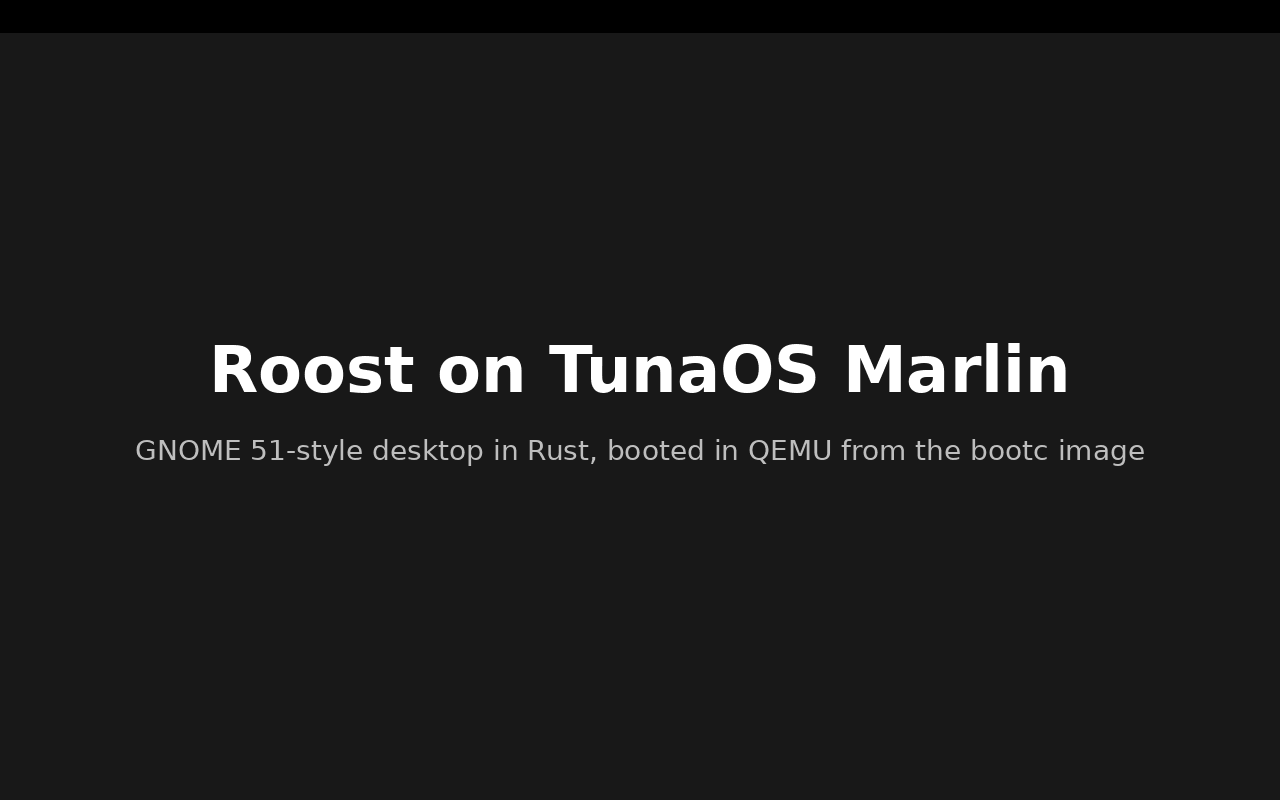
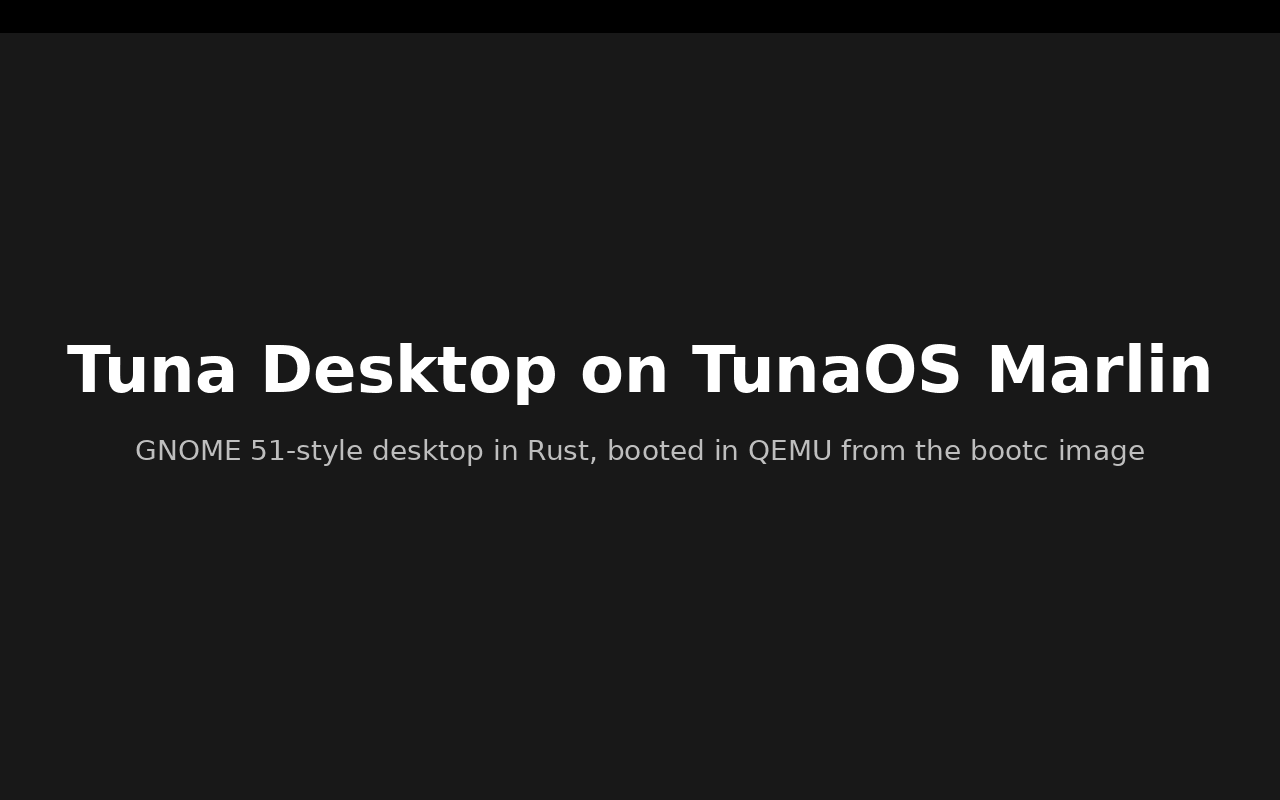
vm-lane: capture the README hero set from the Marlin tour
The tour's stills raced the next input: still() picked the next frame
index and returned at once, so Escape often landed before the capture
and the app grid, quick settings and calendar stills showed a bare
desktop. still() now waits for its frame.

The tour also writes tour/hero/: the overview and app grid with Disks,
System Monitor and Files open, quick settings, the calendar with sample
notifications (sent through the shell's notification server by a new
hero-notify lifecycle action), the switcher and the lock screen as
pngquant/optipng PNGs at 1280x800, and an H.264 overview clip captured
by a QMP burst and resampled to 15 fps from real capture times, plus a
GIF. scripts/tuna-hero-media installs a run's set into docs/walkthrough.

The tour title cards are re-rendered with the Tuna Desktop name.

Refs #506

Claude-Session: https://claude.ai/code/session_016YpFGeYYmfpLzk2LMr8ebX

Changed region(s): [[0.0625, 0.4062, 0.9688, 0.5]]

diff --git a/scripts/lib/vm-boot-tests.py b/scripts/lib/vm-boot-tests.py
@@ -451,5 +451,95 @@ class PciCapabilities(unittest.TestCase):
         self.assertTrue(self.probe(8, cycle=True)["no_soft_reset"])
 
 
+def write_ppm(path, rgb, size=(64, 40)):
+    width, height = size
+    Path(path).write_bytes(f"P6 {width} {height} 255\n".encode() + bytes(rgb) * (width * height))
+
+
+class FakeScreendumpQmp:
+    """Writes a solid frame per screendump (PPM bytes; nothing decodes the
+    PNG-named ones in these tests)."""
+
+    def __init__(self):
+        self.calls = []
+
+    def cmd(self, command, **args):
+        self.calls.append(command)
+        if command == "screendump":
+            write_ppm(args["filename"], (len(self.calls) * 7 % 256, 40, 90))
+        return {}
+
+
+class TourRecorder(unittest.TestCase):
+    def test_still_waits_for_its_frame(self):
+        with tempfile.TemporaryDirectory() as directory:
+            rec = lane.Recorder(FakeScreendumpQmp(), directory)
+            rec.thread.start()
+            try:
+                rec.still("probe")
+                # The still's frame exists before still() returns, so input
+                # sent next (Escape) can no longer land before the capture.
+                self.assertGreater(rec.n, rec.stills["probe"])
+                self.assertTrue((Path(rec.dir) / f"f{rec.stills['probe']:06d}.png").exists())
+            finally:
+                rec.stop.set()
+                rec.thread.join(timeout=5)
+
+    def test_burst_lends_frames_to_the_tour(self):
+        with tempfile.TemporaryDirectory() as directory:
+            rec = lane.Recorder(FakeScreendumpQmp(), directory)
+            rec.thread.start()
+            try:
+                rec.start_burst(str(Path(directory) / "burst"))
+                import time
+                time.sleep(1.2)
+                clip = rec.end_burst()
+            finally:
+                rec.stop.set()
+                rec.thread.join(timeout=5)
+            self.assertGreater(len(clip), 2)
+            self.assertTrue(all(path.endswith(".ppm") for _, path in clip))
+            self.assertTrue(rec.lent)
+            self.assertTrue(set(rec.lent.values()) <= {path for _, path in clip})
+
+
+@unittest.skipUnless(lane.shutil.which("ffmpeg"), "needs ffmpeg")
+class HeroSet(unittest.TestCase):
+    def test_stable_names_and_constant_rate_clip(self):
+        with tempfile.TemporaryDirectory() as directory:
+            root = Path(directory)
+            size = (lane.WIDTH, lane.HEIGHT)
+            write_ppm(root / "still.ppm", (10, 60, 120), size)
+            lane.subprocess.run(["ffmpeg", "-loglevel", "error", "-i", str(root / "still.ppm"),
+                                 str(root / "still.png")], check=True)
+            stills = {card: str(root / "still.png") for card in lane.HERO_STILLS.values()}
+            clip = []
+            for index in range(12):
+                path = root / f"b{index:05d}.ppm"
+                write_ppm(path, (index * 20, 60, 120), size)
+                clip.append((100.0 + index * 0.25, str(path)))
+            result = lane.write_hero(str(root / "hero"), stills, clip)
+            names = sorted(p.name for p in (root / "hero").iterdir())
+            self.assertEqual(names, sorted([f"{n}.png" for n in lane.HERO_STILLS]
+                                           + ["hero-overview.gif", "hero-overview.mp4"]))
+            self.assertEqual(set(result["stills"]), set(lane.HERO_STILLS))
+            self.assertEqual(result["video"]["captured_frames"], 12)
+            self.assertEqual(result["video"]["capture_fps"], 4.0)
+            self.assertLessEqual(result["video"]["mp4_bytes"], lane.HERO_MP4_LIMIT)
+            probe = lane.subprocess.run(
+                ["ffprobe", "-v", "error", "-select_streams", "v:0", "-show_entries",
+                 "stream=width,height,r_frame_rate,codec_name", "-of", "json",
+                 str(root / "hero/hero-overview.mp4")], capture_output=True, text=True, check=True)
+            stream = json.loads(probe.stdout)["streams"][0]
+            self.assertEqual((stream["codec_name"], stream["width"], stream["height"]),
+                             ("h264", lane.WIDTH, lane.HEIGHT))
+            self.assertEqual(stream["r_frame_rate"], f"{lane.HERO_FPS}/1")
+
+    def test_missing_clip_still_writes_stills(self):
+        with tempfile.TemporaryDirectory() as directory:
+            result = lane.write_hero(str(Path(directory) / "hero"), {}, [])
+            self.assertEqual(result, {"stills": {}, "video": None})
+
+
 if __name__ == "__main__":
     unittest.main()

diff --git a/scripts/lib/vm-tour-cards/render.py b/scripts/lib/vm-tour-cards/render.py
@@ -18,7 +18,7 @@ CARDS = {
     "alt-tab": ("Windows and Alt+Tab", "Open a few apps, then switch with Alt+Tab"),
     "scroll": ("Scrollable tiling",
                "Super+Shift+T toggles scroll mode, Super+R resizes, Super+Left/Right moves"),
-    "lock": ("Lock screen", "Lock from quick settings, then unlock with the password"),
+    "lock": ("Lock screen", "Super+L locks the session; the password unlocks it"),
 }
 W, H = 1280, 800
 FONTS = "/usr/share/fonts/truetype/dejavu"
